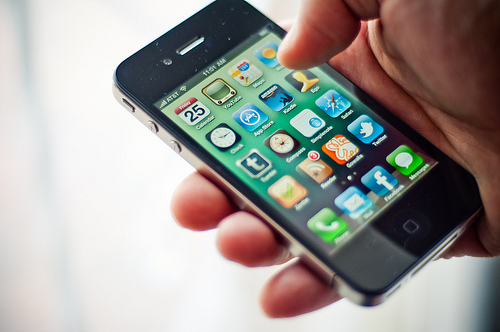
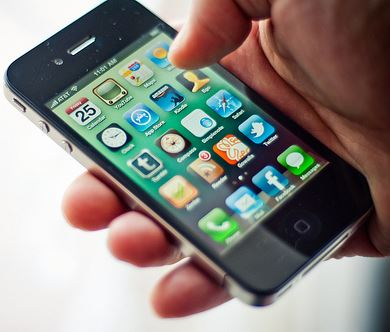
portfolio width

diff --git a/_includes/portfolio.html b/_includes/portfolio.html
@@ -4,7 +4,7 @@
 
             <div class="col-lg-4 col-sm-6">
                  <h4>Design Process</h4>
-                    <img src="img/portfolio/1.jpg" class="img-responsive" style="width: 90%; margin: auto;" alt="">
+                    <img src="img/portfolio/1.jpg" class="img-responsive" style="width: 500px; margin: auto;" alt="">
             </div>
 
             <div class="col-lg-4 col-sm-6">
